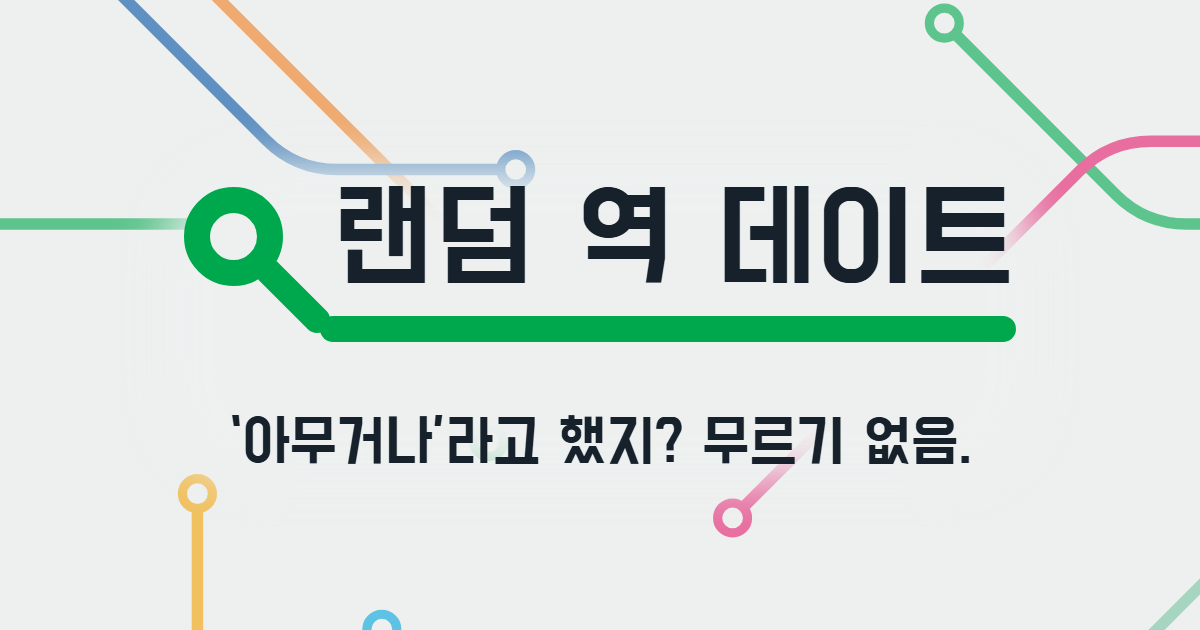
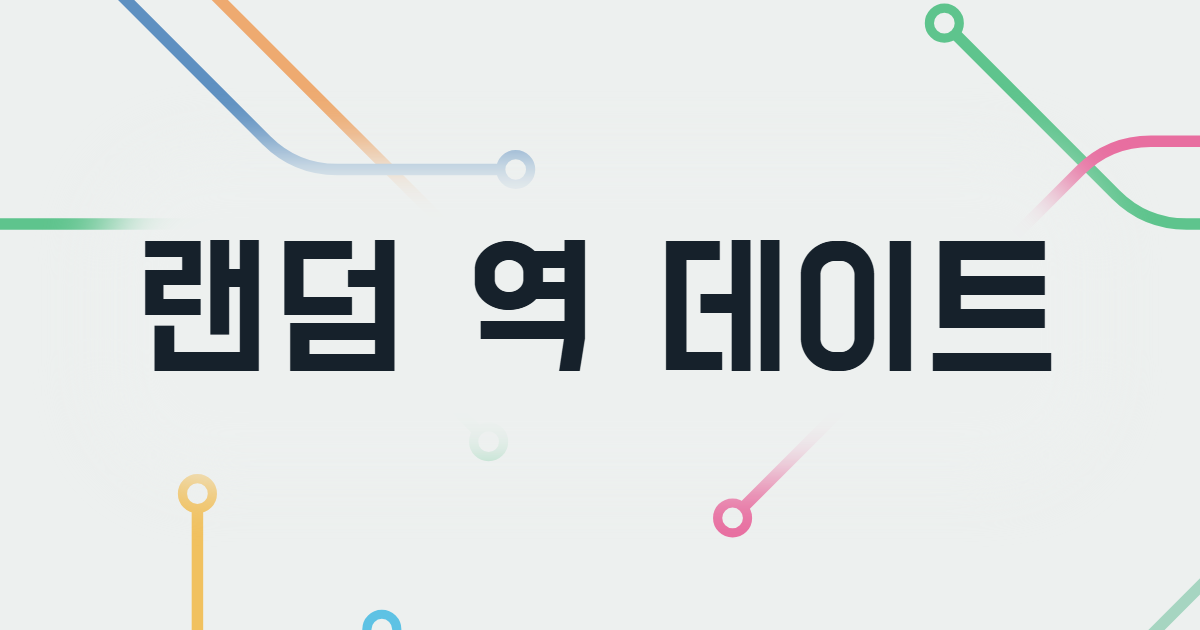
휴대폰에서 네이버 지도 앱으로 바로 열기, 로고 선 다듬기, 미리보기 그림은 제목만
- 지도 링크: 아이폰은 유니버설 링크(app.map.naver.com/launchApp/search), 안드로이드는 intent 주소(앱이 없으면 모바일 웹 검색)
  네이버 모바일 웹의 '앱 열기' 버튼과 같은 방식. 컴퓨터는 웹 지도 그대로
- 로고 선: 3px로 얇게, 끝은 각지게, 꺾이는 모서리는 빈틈없이 이어지게, 밑줄을 글자에 더 가깝게
- 미리보기 그림(og.png): 도넛·밑줄·부제를 빼고 제목만 가운데에

Changed region(s): [[0.0617, 0.2111, 0.925, 0.6032], [0.185, 0.6635, 0.8017, 0.754], [0.1233, 0.754, 0.185, 0.7841]]

diff --git a/index.html b/index.html
@@ -11,7 +11,7 @@
 <meta property="og:site_name" content="랜덤 역 데이트">
 <meta property="og:title" content="랜덤 역 데이트">
 <meta property="og:description" content="오늘 데이트는 뽑기가 정했다. 눌러서 확인해.">
-<meta property="og:image" content="https://dav3411.github.io/random-date/og.png">
+<meta property="og:image" content="https://dav3411.github.io/random-date/og.png?v=2">
 <meta property="og:image:width" content="1200">
 <meta property="og:image:height" content="630">
 <meta property="og:locale" content="ko_KR">
@@ -99,20 +99,25 @@
   .bar-top { display: flex; flex-wrap: wrap; align-items: baseline; justify-content: space-between; gap: 4px 12px; }
   .brand {
     display: inline-flex; align-items: center; gap: 8px;
-    padding: 4px 0 11px; border: 0; background: none; color: var(--ink); cursor: pointer;
+    padding: 4px 0 7px; border: 0; background: none; color: var(--ink); cursor: pointer;
     font: 400 1.2rem/1 var(--font-display); letter-spacing: .02em;
     position: relative;
-    --drop: calc(.5em + .6px); /* 선이 도넛에서 밑줄 높이까지 내려가는 거리 */
+    --lw: 3px;                   /* 선 굵기 */
+    --drop: calc(.5em - 2.5px);  /* 선이 도넛에서 밑줄 높이까지 내려가는 거리 */
   }
-  /* 로고의 선: 도넛(종점)에서 오른쪽 아래 45도로 내려와 그대로 글자 밑줄이 됩니다. 노선도의 선처럼 한 줄로 이어집니다. */
-  .brand::before, .brand::after {
-    content: ""; position: absolute; height: 4px; border-radius: 2px; background: #00A84D; pointer-events: none;
-  }
+  /* 로고의 선: 도넛(종점)에서 오른쪽 아래 45도로 내려와 그대로 글자 밑줄이 됩니다. 끝은 각지게 자릅니다.
+     대각선은 위아래가 수평으로 잘린 평행사변형이라, 꺾이는 모서리가 밑줄과 빈틈없이 한 줄로 이어집니다. */
+  .brand::before, .brand::after { content: ""; position: absolute; background: #00A84D; pointer-events: none; }
   .brand::before {
-    left: 11.4px; top: calc(.5em + 4.9px); /* 도넛 테두리의 오른쪽 아래(45도) 지점에서 시작 */
-    width: calc(var(--drop) * 1.4142); transform-origin: 0 50%; transform: rotate(45deg);
+    /* 도넛 테두리의 오른쪽 아래(45도) 지점에서 시작해 밑줄 아랫변까지 */
+    left: calc(11.4px - var(--lw) * .7071); top: calc(.5em + 6.9px);
+    width: calc(var(--lw) * 1.4142); height: calc(var(--drop) + var(--lw) / 2);
+    transform-origin: 0 0; transform: skewX(45deg);
   }
-  .brand::after { left: calc(10.4px + var(--drop)); right: 0; top: calc(1em + 5.5px); }
+  .brand::after {
+    left: calc(11.4px - var(--lw) * .7071 + var(--drop) + var(--lw) / 2 - .3px); right: 0;
+    top: calc(1em + 4.4px - var(--lw) / 2); height: var(--lw);
+  }
   /* 도넛 아이콘 (초록). 글자의 실제 높이(약 15px)에 맞추고, 글자 모양 가운데로 1px 올립니다. */
   .brand-dot {
     flex: none; width: 15px; height: 15px; border-radius: 50%;
@@ -583,10 +588,30 @@
       catFilter: $('cat-filter'), catTitle: $('cat-title'), catCount: $('cat-count'), catList: $('cat-list'),
     };
 
-    // 휴대폰에서 map.naver.com 주소는 매번 '네이버지도 앱 설치·열기' 안내 페이지로 넘겨집니다.
-    // 그래서 휴대폰에서는 검색 결과가 바로 나오는 모바일 지도 주소를 씁니다. (앱은 그 화면의 '앱 열기'로)
-    const onPhone = /Android|iPhone|iPod|Mobile/i.test(navigator.userAgent);
-    const mapUrl = q => (onPhone ? 'https://m.map.naver.com/search?query=' : 'https://map.naver.com/p/search/') + encodeURIComponent(q);
+    // 네이버 지도 링크. 휴대폰에서는 네이버 지도 앱이 바로 뜨도록, 네이버 모바일 웹의 '앱 열기' 버튼과 같은 주소를 씁니다.
+    //  - 아이폰: 유니버설 링크(app.map.naver.com/launchApp/…). 앱이 있으면 앱이 열리고, 없으면 네이버의 앱 설치 안내가 열립니다.
+    //  - 안드로이드: 앱을 부르는 intent 주소. 앱이 없으면 모바일 웹 검색 결과로 넘어갑니다.
+    //  - 그 밖(컴퓨터 등): 웹 지도.  (map.naver.com/p/search 주소는 휴대폰에서 매번 앱 안내 페이지를 거쳐서 쓰지 않습니다.)
+    // appname은 네이버 안내에 따라 부르는 쪽(이 사이트)의 주소를 넣습니다.
+    const UA = navigator.userAgent;
+    const mapApp = /iPhone|iPod/.test(UA) ? 'ios' : /Android/i.test(UA) ? 'android' : null;
+    const mapUrl = q => {
+      const query = encodeURIComponent(q);
+      const from = encodeURIComponent(location.host + location.pathname);
+      const web = 'https://m.map.naver.com/search?query=' + query;
+      if (mapApp === 'ios') return `https://app.map.naver.com/launchApp/search?query=${query}&appname=${from}`;
+      if (mapApp === 'android') {
+        return `intent://search?query=${query}&appname=${from}#Intent;scheme=nmap;action=android.intent.action.VIEW;` +
+          `category=android.intent.category.BROWSABLE;package=com.nhn.android.nmap;S.browser_fallback_url=${encodeURIComponent(web)};end`;
+      }
+      return /Mobile/i.test(UA) ? web : 'https://map.naver.com/p/search/' + query;
+    };
+    // 앱을 여는 링크는 새 탭을 띄우지 않습니다(빈 탭이 남지 않게). 웹 지도는 새 탭으로.
+    const setMapHref = (a, q) => {
+      a.href = mapUrl(q);
+      if (mapApp) a.removeAttribute('target'); else a.target = '_blank';
+      a.rel = 'noopener';
+    };
     const countOf = s => `${s.loop ? s.origin : s.origin + '에서'} ${s.n}번째`;
     const setMsg = text => { els.msg.textContent = text || ''; els.msg.hidden = !text; };
     const announce = text => { els.live.textContent = text; };
@@ -607,9 +632,7 @@
     };
     const mapLink = (text, q) => {
       const a = make('a', null, text + ' ↗');
-      a.href = mapUrl(q);
-      a.target = '_blank';
-      a.rel = 'noopener';
+      setMapHref(a, q);
       return a;
     };
 
@@ -625,7 +648,7 @@
     function setCardLink(a, query, label) {
       a.hidden = !query;
       if (query) {
-        a.href = mapUrl(query);
+        setMapHref(a, query);
         a.setAttribute('aria-label', label || query);
       } else {
         a.removeAttribute('href');
